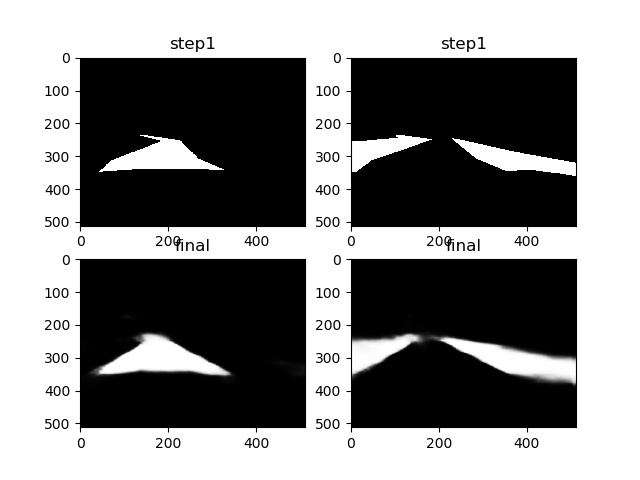
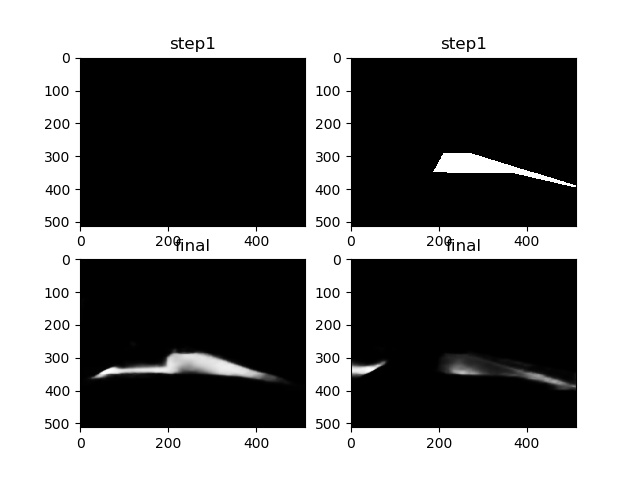
eval

diff --git a/model/resnet50.py b/model/resnet50.py
@@ -58,6 +58,16 @@ def seg_arg():
             padding = 'SAME'):
         with slim.arg_scope([slim.batch_norm],**batch_norm_params) as sc:
             return sc
+def seg_arg_gn():
+
+    with slim.arg_scope(
+            [slim.conv2d],
+            weights_regularizer=slim.l2_regularizer(0.00001),
+            activation_fn=tf.nn.relu,
+            normalizer_fn=slim.group_norm,
+            padding = 'SAME') as sc:
+        return sc
+
 
 
 
@@ -75,7 +85,7 @@ def resnet_v2_50(inputs,
       resnet_v2_block('block1', base_depth=64, num_units=3, stride=2),
       resnet_v2_block('block2', base_depth=128, num_units=4, stride=2),
       resnet_v2_block('block3', base_depth=256, num_units=6, stride=2),
-      resnet_v2_block('block4', base_depth=512, num_units=3, stride=2),
+      resnet_v2_block('block4', base_depth=512, num_units=3, stride=1),
   ]
   return resnet_v2(inputs, blocks, num_classes, is_training=is_training,
                    global_pool=global_pool, output_stride=output_stride,
@@ -143,25 +153,25 @@ def fpn(img):
     c4 = endpoint['resnet_v2_50/block4']
     with slim.arg_scope(seg_arg()):
         c3_1 = slim.conv2d(c3, num_outputs=256, kernel_size=1, rate=1)
-        c3_2 = slim.conv2d(c3, num_outputs=256, kernel_size=3, rate=6)
-        c3_3 = slim.conv2d(c3, num_outputs=256, kernel_size=3, rate=12)
-        c3_4 = slim.conv2d(c3, num_outputs=256, kernel_size=3, rate=18)
+        c3_2 = slim.conv2d(c3, num_outputs=256, kernel_size=3, rate=4)
+        c3_3 = slim.conv2d(c3, num_outputs=256, kernel_size=3, rate=6)
+        c3_4 = slim.conv2d(c3, num_outputs=256, kernel_size=3, rate=8)
         c31 = tf.concat([c3_1, c3_2, c3_3, c3_4], axis=3)
         c31 = slim.conv2d(c3, num_outputs=256, kernel_size=1)
         c31 = tf.image.resize_bilinear(c3, tf.shape(c1)[1:3])
 
         c4_1 = slim.conv2d(c4, num_outputs=256, kernel_size=1, rate=1)
-        c4_2 = slim.conv2d(c4, num_outputs=256, kernel_size=3, rate=6)
-        c4_3 = slim.conv2d(c4, num_outputs=256, kernel_size=3, rate=12)
-        c4_4 = slim.conv2d(c4, num_outputs=256, kernel_size=3, rate=18)
+        c4_2 = slim.conv2d(c4, num_outputs=256, kernel_size=3, rate=4)
+        c4_3 = slim.conv2d(c4, num_outputs=256, kernel_size=3, rate=6)
+        c4_4 = slim.conv2d(c4, num_outputs=256, kernel_size=3, rate=8)
         c41 = tf.concat([c4_1, c4_2, c4_3, c4_4], axis=3)
         c41 = slim.conv2d(c4, num_outputs=256, kernel_size=1)
         c41 = tf.image.resize_bilinear(c4, tf.shape(c1)[1:3])
 
         c2_1 = slim.conv2d(c2, num_outputs=256, kernel_size=1, rate=1)
-        c2_2 = slim.conv2d(c2, num_outputs=256, kernel_size=3, rate=6)
-        c2_3 = slim.conv2d(c2, num_outputs=256, kernel_size=3, rate=12)
-        c2_4 = slim.conv2d(c2, num_outputs=256, kernel_size=3, rate=18)
+        c2_2 = slim.conv2d(c2, num_outputs=256, kernel_size=3, rate=4)
+        c2_3 = slim.conv2d(c2, num_outputs=256, kernel_size=3, rate=6)
+        c2_4 = slim.conv2d(c2, num_outputs=256, kernel_size=3, rate=8)
         c21 = tf.concat([c2_1, c2_2, c2_3, c2_4], axis=3)
         c21 = slim.conv2d(c2, num_outputs=256, kernel_size=1)
         c21 = tf.image.resize_bilinear(c2, tf.shape(c1)[1:3])
@@ -176,5 +186,5 @@ def fpn(img):
                 ):
                 x = slim.conv2d(x1, num_outputs=2, kernel_size=3, normalizer_fn=None, activation_fn=None)
                 x = tf.image.resize_bilinear(x, tf.shape(img)[1:3])
-    return x,x1
+    return x
 

diff --git a/model/hourglas_net.py b/model/hourglas_net.py
@@ -1,0 +1,75 @@
+import tensorflow as tf
+from tensorflow.contrib import slim
+
+def cornet_arg():
+    batch_norm_params = {
+        'is_training':True,
+        'decay': 0.9997,
+        'epsilon':1e-5,
+        'scale':True
+    }
+    with slim.arg_scope(
+            [slim.conv2d],
+            weights_regularizer=slim.l2_regularizer(0.0001),
+            activation_fn=tf.nn.relu,
+            normalizer_fn=slim.batch_norm,
+            padding = 'SAME'):
+        with slim.arg_scope([slim.batch_norm],**batch_norm_params) as sc:
+            return sc
+
+def residual(x, out_dim, stride = 1, scope =None):
+    with tf.variable_scope(scope):
+        with slim.arg_scope([slim.conv2d],biases_initializer=None):
+            x1 = slim.conv2d(x, num_outputs=out_dim, kernel_size=3, stride=stride )
+            x2 = slim.conv2d(x1, num_outputs=out_dim, kernel_size=3, activation_fn=None, rate=2)
+            x3 = slim.conv2d(x, num_outputs=out_dim, kernel_size=1, stride=stride, activation_fn=None)
+            return slim.nn.relu(x2+x3)
+
+
+
+def model_list(x, n=5, n_dim=None, repeats = None):
+    if not n_dim:
+        n_dim = [256, 256, 384, 384, 384, 512]
+    if not repeats:
+        repeats = [2, 2, 2, 2, 2, 4]
+    cur_num = repeats[0]
+    next_num = repeats[1]
+    cur_dim = n_dim[0]
+    next_dim = n_dim[1]
+    up1 = slim.repeat(x, cur_num, residual, out_dim=cur_dim, scope='up1'+str(n))
+    x = slim.max_pool2d(up1, kernel_size=2, stride=2)
+    x = slim.repeat(x, cur_num, residual, out_dim=next_dim, scope='low1'+str(n))
+    if n>1:
+        x = model_list(x, n-1, n_dim[1:], repeats[1:])
+    else:
+        x = slim.repeat(x, next_num, residual, out_dim=next_dim, scope='low2'+str(n))
+    x = slim.repeat(x, cur_num-1, slim.conv2d, num_outputs=cur_dim, kernel_size=3, scope='low3'+str(n))
+    x = tf.image.resize_bilinear(x, tf.shape(x)[1:3]*2)
+    return x+up1
+
+def fpn(image):
+    with tf.variable_scope('cornet'):
+        with slim.arg_scope(cornet_arg()):
+            inter = slim.conv2d(image, num_outputs=128, kernel_size=7, stride=2)
+            inter = slim.conv2d(inter, num_outputs=256, kernel_size=3, stride=2)
+            kps = model_list(inter)
+            return kps
+
+def fcn(image):
+    fea = fpn(image)
+    c2_1 = slim.conv2d(fea, num_outputs=96, kernel_size=1, rate=1)
+    c2_2 = slim.conv2d(fea, num_outputs=256, kernel_size=3, rate=4)
+    c2_3 = slim.conv2d(fea, num_outputs=256, kernel_size=3, rate=6)
+    c2_4 = slim.conv2d(fea, num_outputs=256, kernel_size=3, rate=8)
+    c21 = tf.concat([c2_1, c2_2, c2_3, c2_4], axis=3)
+    c21 = slim.conv2d(c21, num_outputs=256, kernel_size=1)
+
+    with slim.arg_scope(
+            [slim.conv2d],
+            weights_regularizer=slim.l2_regularizer(0.0001),
+            weights_initializer=tf.truncated_normal_initializer(stddev=0.01),
+    ):
+        x = slim.conv2d(fea, num_outputs=2, kernel_size=3, normalizer_fn=None, activation_fn=None)
+        x = tf.image.resize_bilinear(x, tf.shape(image)[1:3])
+        return x
+

diff --git a/train.py b/train.py
@@ -9,8 +9,8 @@ import time
 from dsl_data import data_loader_multi
 def run():
     batch_size = 8
-    image = tf.placeholder(dtype=tf.float32, shape=(batch_size, 512, 512, 3))
-    mask = tf.placeholder(dtype=tf.float32, shape=(batch_size, 512, 512, 2))
+    image = tf.placeholder(dtype=tf.float32, shape=(batch_size, config.image_size[0], config.image_size[1], 3))
+    mask = tf.placeholder(dtype=tf.float32, shape=(batch_size, config.image_size[0], config.image_size[1], 2))
     global_step = tf.train.get_or_create_global_step()
 
     lr = tf.train.exponential_decay(
@@ -25,7 +25,8 @@ def run():
     optimizer = tf.train.MomentumOptimizer(learning_rate=lr, momentum=0.9)
 
     train_op = slim.learning.create_train_op(train_tensors, optimizer)
-    vbs = []
+    '''
+       vbs = []
     for s in slim.get_variables():
         if 'resnet_v2_50' in s.name and 'Momentum' not in s.name and 'GroupNorm' not in s.name:
             vbs.append(s)
@@ -33,9 +34,9 @@ def run():
 
     def restore(sess):
         saver.restore(sess, config.check_dir)
-
-    sv = tf.train.Supervisor(logdir='drive1', summary_op=None, init_fn=restore, save_model_secs=100)
-    gen = get_drive(batch_size=batch_size, image_size=[512, 512])
+    '''
+    sv = tf.train.Supervisor(logdir='hour', summary_op=None, init_fn=None, save_model_secs=100)
+    gen = get_drive(batch_size=batch_size, image_size=config.image_size)
     qq = data_loader_multi.get_thread(gen, 1)
 
     with sv.managed_session() as sess:
@@ -69,12 +70,6 @@ def run():
                     plt.imshow(out[s, :, :, 1], aspect="auto", cmap='gray')
                     plt.savefig('dd.jpg')
 
-def eger():
-    tf.enable_eager_execution()
-    gen = get_drive(batch_size=4, image_size=[512, 512])
-    org_im, msk = next(gen)
-    print(sigmoid_cross_entropy_balanced(msk, msk))
-    print(nn_loss(msk, msk))
 
 
 if __name__ == '__main__':

diff --git a/loss.py b/loss.py
@@ -1,6 +1,6 @@
 from model import resnet50
 import tensorflow as tf
-
+from model import hourglas_net
 def sigmoid_cross_entropy_balanced(logits, labels, name='cross_entropy_loss'):
     """
     Implements Equation [2] in https://arxiv.org/pdf/1504.06375.pdf
@@ -58,7 +58,7 @@ def sigmoid_cross_entropy_balanced1(logits, labels, name='cross_entropy_loss'):
 
 def nn_loss(logits, labels, name='cross_entropy_loss'):
     labels = tf.cast(labels, tf.float32)
-    print(labels)
+
     logits = tf.cast(logits, tf.float32)
 
     t_loss = tf.keras.backend.switch(tf.cast(tf.size(labels) > 0, tf.bool),
@@ -71,14 +71,16 @@ def sec_loss(result, labels):
     result = tf.nn.sigmoid(result)
     y = tf.cast(labels, tf.float32)
     count_pos = tf.reduce_sum(y)
-    mask1 = result[:,:,:,0]
+    mask1 = result[:, :, :, 0]
     mask2 = result[:, :, :, 1]
     los = tf.reduce_sum(mask1*mask2)/count_pos
+    los = tf.sqrt(los)
     return los
 
 
 def get_loss(img,labels):
-    result, tmp = resnet50.fpn(img)
+    #result = resnet50.fpn(img)
+    result = hourglas_net.fcn(img)
     ls = sigmoid_cross_entropy_balanced1(result, labels)
     se_loss = sec_loss(result, labels)
     tf.losses.add_loss(ls)

diff --git a/config.py b/config.py
@@ -198,12 +198,13 @@ BDD = ['bike', 'bus', 'car', 'motor', 'person', 'rider','traffic light', 'traffi
 Tree = ['tree']
 MAX_GT = 100
 batch_size = 8
-image_size = [768,1280]
+image_size = [512,512]
 mask_pool_shape = 28
 norm_value = 2.0
 mask_weight_loss = 2.0
 mask_train = 100
 flag = 1
+num_class = 2
 local_voc_dir = '/media/dsl/20d6b919-92e1-4489-b2be-a092290668e4/VOCdevkit/VOCdevkit'
 server_voc_dir = '/data_set/data/VOCdevkit'
 
